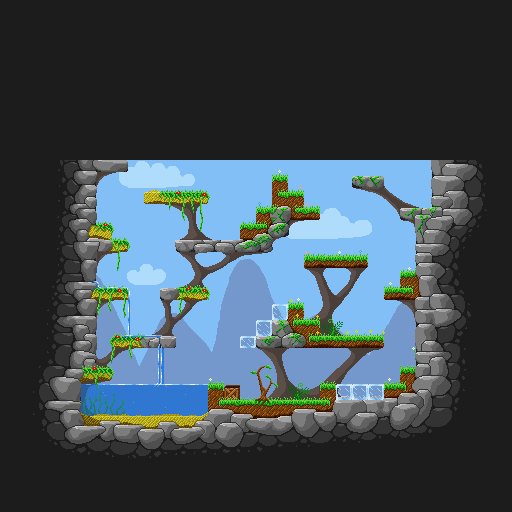
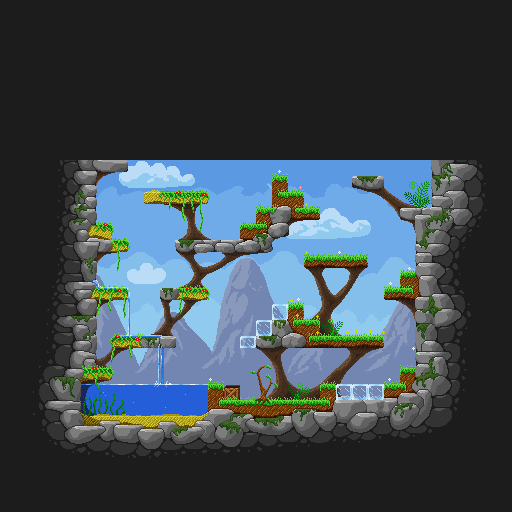
art: WIP level 0 update + web export size refresh

diff --git a/web/index.html b/web/index.html
@@ -151,7 +151,7 @@ body {
 
 		<script src="index.js"></script>
 		<script>
-const GODOT_CONFIG = {"args":[],"canvasResizePolicy":2,"emscriptenPoolSize":8,"ensureCrossOriginIsolationHeaders":true,"executable":"index","experimentalVK":false,"fileSizes":{"index.pck":30566076,"index.wasm":39457376},"focusCanvas":true,"gdextensionLibs":[],"godotPoolSize":4};
+const GODOT_CONFIG = {"args":[],"canvasResizePolicy":2,"emscriptenPoolSize":8,"ensureCrossOriginIsolationHeaders":true,"executable":"index","experimentalVK":false,"fileSizes":{"index.pck":30566008,"index.wasm":39457376},"focusCanvas":true,"gdextensionLibs":[],"godotPoolSize":4};
 const GODOT_THREADS_ENABLED = false;
 const engine = new Engine(GODOT_CONFIG);
 